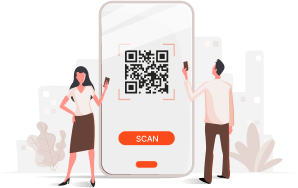
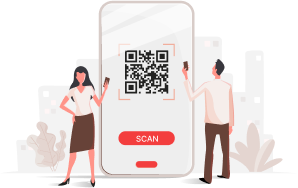
add chnages on design

Changed region(s): [[0.3926, 0.6915, 0.604, 0.7713], [0.453, 0.8511, 0.5436, 0.9043]]

diff --git a/resources/js/components/guest-app/Register.vue b/resources/js/components/guest-app/Register.vue
@@ -2,24 +2,24 @@
 <f7-page color="bg-color-white" @page:beforeremove="onPageBeforeRemove" @page:beforeout="onPageBeforeOut">
     <div class="nav-bar">
         <div class="row align-items-center navbar-menu">
-            <div class="menu">
+            <div class="menu col-33">
                 <div class="menu-inner color-black">
                     <div class="menu-item menu-item-dropdown bg-color-transparent" style="width : 100%">
-                        <div class="row menu-item-content no-margin-top no-margin-bottom no-gap">
-                            <div class="col-50">
+                        <div class="row menu-item-content no-margin-top no-margin-bottom justify-content-start">
+                            <div class="margin-right-half">
                                 <svg xmlns="http://www.w3.org/2000/svg" width="16" height="17" viewBox="0 0 16 17" fill="none">
-                                    <path d="M6.11595 8.79832C6.09029 8.67002 5.20648 4.256 5.17845 4.11613C5.13466 3.89728 4.94226 3.73975 4.71882 3.73975H3.78132C3.55788 3.73975 3.36548 3.89728 3.3217 4.11613C3.29323 4.25837 2.40851 8.67689 2.3842 8.79829C2.33341 9.05187 2.49807 9.29853 2.75191 9.34922C3.00576 9.39994 3.25273 9.23547 3.30348 8.98192L3.6031 7.48547H4.89704L5.19666 8.98195C5.24745 9.23563 5.49451 9.39997 5.74823 9.34925C6.00207 9.29853 6.16673 9.05187 6.11595 8.79832ZM3.7906 6.54904L4.1656 4.67618H4.33454L4.70954 6.54904H3.7906Z" fill="#FC4B1A" />
-                                    <path d="M6.11595 8.79832C6.09029 8.67002 5.20648 4.256 5.17845 4.11613C5.13466 3.89728 4.94226 3.73975 4.71882 3.73975H3.78132C3.55788 3.73975 3.36548 3.89728 3.3217 4.11613C3.29323 4.25837 2.40851 8.67689 2.3842 8.79829C2.33341 9.05187 2.49807 9.29853 2.75191 9.34922C3.00576 9.39994 3.25273 9.23547 3.30348 8.98192L3.6031 7.48547H4.89704L5.19666 8.98195C5.24745 9.23563 5.49451 9.39997 5.74823 9.34925C6.00207 9.29853 6.16673 9.05187 6.11595 8.79832ZM3.7906 6.54904L4.1656 4.67618H4.33454L4.70954 6.54904H3.7906Z" fill="#FC4B1A" fill-opacity="0.2" />
-                                    <path d="M13.625 7.4855H12.2188V7.01729C12.2188 6.75871 12.0089 6.54907 11.75 6.54907C11.4911 6.54907 11.2812 6.75871 11.2812 7.01729V7.4855H9.875C9.61612 7.4855 9.40625 7.69514 9.40625 7.95372C9.40625 8.2123 9.61612 8.42193 9.875 8.42193H9.98844C10.2555 9.28383 10.6577 9.94538 11.1002 10.4755C10.74 10.8046 10.3756 11.0744 10.0509 11.3338C9.84878 11.4954 9.816 11.79 9.97775 11.9919C10.1396 12.1939 10.4346 12.2265 10.6366 12.065C10.963 11.8042 11.3543 11.5143 11.75 11.1516C12.146 11.5145 12.538 11.8049 12.8634 12.065C13.0656 12.2266 13.3606 12.1938 13.5223 11.9919C13.684 11.79 13.6512 11.4953 13.4491 11.3338C13.1253 11.075 12.7604 10.8049 12.3998 10.4755C12.8423 9.94538 13.2445 9.28383 13.5116 8.42193H13.625C13.8839 8.42193 14.0938 8.2123 14.0938 7.95372C14.0938 7.69514 13.8839 7.4855 13.625 7.4855ZM11.75 9.78741C11.4508 9.41221 11.1816 8.96438 10.9787 8.41881H12.5213C12.3184 8.96438 12.0492 9.41221 11.75 9.78741Z" fill="#FC4B1A" />
-                                    <path d="M13.625 7.4855H12.2188V7.01729C12.2188 6.75871 12.0089 6.54907 11.75 6.54907C11.4911 6.54907 11.2812 6.75871 11.2812 7.01729V7.4855H9.875C9.61612 7.4855 9.40625 7.69514 9.40625 7.95372C9.40625 8.2123 9.61612 8.42193 9.875 8.42193H9.98844C10.2555 9.28383 10.6577 9.94538 11.1002 10.4755C10.74 10.8046 10.3756 11.0744 10.0509 11.3338C9.84878 11.4954 9.816 11.79 9.97775 11.9919C10.1396 12.1939 10.4346 12.2265 10.6366 12.065C10.963 11.8042 11.3543 11.5143 11.75 11.1516C12.146 11.5145 12.538 11.8049 12.8634 12.065C13.0656 12.2266 13.3606 12.1938 13.5223 11.9919C13.684 11.79 13.6512 11.4953 13.4491 11.3338C13.1253 11.075 12.7604 10.8049 12.3998 10.4755C12.8423 9.94538 13.2445 9.28383 13.5116 8.42193H13.625C13.8839 8.42193 14.0938 8.2123 14.0938 7.95372C14.0938 7.69514 13.8839 7.4855 13.625 7.4855ZM11.75 9.78741C11.4508 9.41221 11.1816 8.96438 10.9787 8.41881H12.5213C12.3184 8.96438 12.0492 9.41221 11.75 9.78741Z" fill="#FC4B1A" fill-opacity="0.2" />
-                                    <path d="M14.5938 3.27154H7.83122L7.63028 1.66144C7.5425 0.959989 6.94263 0.43103 6.23491 0.43103H1.40625C0.630844 0.43103 0 1.06115 0 1.83568V12.1676C0 12.9422 0.630844 13.5723 1.40625 13.5723H5.35884L5.55722 15.1824C5.64484 15.8824 6.24472 16.4128 6.95262 16.4128H14.5938C15.3692 16.4128 16 15.7827 16 15.0081V4.67618C16 3.90166 15.3692 3.27154 14.5938 3.27154ZM1.40625 12.6358C1.14778 12.6358 0.9375 12.4258 0.9375 12.1676V1.83568C0.9375 1.5775 1.14778 1.36746 1.40625 1.36746H6.23491C6.47081 1.36746 6.67078 1.54376 6.7 1.77743C6.76794 2.32168 7.98775 12.096 8.05513 12.6358H1.40625ZM6.46012 14.8443L6.30341 13.5723H7.56103L6.46012 14.8443ZM15.0625 15.0081C15.0625 15.2663 14.8522 15.4764 14.5938 15.4764H7.15231L8.93681 13.4146C9.02816 13.3116 9.06909 13.175 9.05022 13.0392L7.94809 4.20797H14.5938C14.8522 4.20797 15.0625 4.41801 15.0625 4.67618V15.0081Z" fill="#FC4B1A" />
-                                    <path d="M14.5938 3.27154H7.83122L7.63028 1.66144C7.5425 0.959989 6.94263 0.43103 6.23491 0.43103H1.40625C0.630844 0.43103 0 1.06115 0 1.83568V12.1676C0 12.9422 0.630844 13.5723 1.40625 13.5723H5.35884L5.55722 15.1824C5.64484 15.8824 6.24472 16.4128 6.95262 16.4128H14.5938C15.3692 16.4128 16 15.7827 16 15.0081V4.67618C16 3.90166 15.3692 3.27154 14.5938 3.27154ZM1.40625 12.6358C1.14778 12.6358 0.9375 12.4258 0.9375 12.1676V1.83568C0.9375 1.5775 1.14778 1.36746 1.40625 1.36746H6.23491C6.47081 1.36746 6.67078 1.54376 6.7 1.77743C6.76794 2.32168 7.98775 12.096 8.05513 12.6358H1.40625ZM6.46012 14.8443L6.30341 13.5723H7.56103L6.46012 14.8443ZM15.0625 15.0081C15.0625 15.2663 14.8522 15.4764 14.5938 15.4764H7.15231L8.93681 13.4146C9.02816 13.3116 9.06909 13.175 9.05022 13.0392L7.94809 4.20797H14.5938C14.8522 4.20797 15.0625 4.41801 15.0625 4.67618V15.0081Z" fill="#FC4B1A" fill-opacity="0.2" />
+                                    <path d="M6.11595 8.79832C6.09029 8.67002 5.20648 4.256 5.17845 4.11613C5.13466 3.89728 4.94226 3.73975 4.71882 3.73975H3.78132C3.55788 3.73975 3.36548 3.89728 3.3217 4.11613C3.29323 4.25837 2.40851 8.67689 2.3842 8.79829C2.33341 9.05187 2.49807 9.29853 2.75191 9.34922C3.00576 9.39994 3.25273 9.23547 3.30348 8.98192L3.6031 7.48547H4.89704L5.19666 8.98195C5.24745 9.23563 5.49451 9.39997 5.74823 9.34925C6.00207 9.29853 6.16673 9.05187 6.11595 8.79832ZM3.7906 6.54904L4.1656 4.67618H4.33454L4.70954 6.54904H3.7906Z" fill="#fff" />
+                                    <path d="M6.11595 8.79832C6.09029 8.67002 5.20648 4.256 5.17845 4.11613C5.13466 3.89728 4.94226 3.73975 4.71882 3.73975H3.78132C3.55788 3.73975 3.36548 3.89728 3.3217 4.11613C3.29323 4.25837 2.40851 8.67689 2.3842 8.79829C2.33341 9.05187 2.49807 9.29853 2.75191 9.34922C3.00576 9.39994 3.25273 9.23547 3.30348 8.98192L3.6031 7.48547H4.89704L5.19666 8.98195C5.24745 9.23563 5.49451 9.39997 5.74823 9.34925C6.00207 9.29853 6.16673 9.05187 6.11595 8.79832ZM3.7906 6.54904L4.1656 4.67618H4.33454L4.70954 6.54904H3.7906Z" fill="#fff" fill-opacity="0.2" />
+                                    <path d="M13.625 7.4855H12.2188V7.01729C12.2188 6.75871 12.0089 6.54907 11.75 6.54907C11.4911 6.54907 11.2812 6.75871 11.2812 7.01729V7.4855H9.875C9.61612 7.4855 9.40625 7.69514 9.40625 7.95372C9.40625 8.2123 9.61612 8.42193 9.875 8.42193H9.98844C10.2555 9.28383 10.6577 9.94538 11.1002 10.4755C10.74 10.8046 10.3756 11.0744 10.0509 11.3338C9.84878 11.4954 9.816 11.79 9.97775 11.9919C10.1396 12.1939 10.4346 12.2265 10.6366 12.065C10.963 11.8042 11.3543 11.5143 11.75 11.1516C12.146 11.5145 12.538 11.8049 12.8634 12.065C13.0656 12.2266 13.3606 12.1938 13.5223 11.9919C13.684 11.79 13.6512 11.4953 13.4491 11.3338C13.1253 11.075 12.7604 10.8049 12.3998 10.4755C12.8423 9.94538 13.2445 9.28383 13.5116 8.42193H13.625C13.8839 8.42193 14.0938 8.2123 14.0938 7.95372C14.0938 7.69514 13.8839 7.4855 13.625 7.4855ZM11.75 9.78741C11.4508 9.41221 11.1816 8.96438 10.9787 8.41881H12.5213C12.3184 8.96438 12.0492 9.41221 11.75 9.78741Z" fill="#fff" />
+                                    <path d="M13.625 7.4855H12.2188V7.01729C12.2188 6.75871 12.0089 6.54907 11.75 6.54907C11.4911 6.54907 11.2812 6.75871 11.2812 7.01729V7.4855H9.875C9.61612 7.4855 9.40625 7.69514 9.40625 7.95372C9.40625 8.2123 9.61612 8.42193 9.875 8.42193H9.98844C10.2555 9.28383 10.6577 9.94538 11.1002 10.4755C10.74 10.8046 10.3756 11.0744 10.0509 11.3338C9.84878 11.4954 9.816 11.79 9.97775 11.9919C10.1396 12.1939 10.4346 12.2265 10.6366 12.065C10.963 11.8042 11.3543 11.5143 11.75 11.1516C12.146 11.5145 12.538 11.8049 12.8634 12.065C13.0656 12.2266 13.3606 12.1938 13.5223 11.9919C13.684 11.79 13.6512 11.4953 13.4491 11.3338C13.1253 11.075 12.7604 10.8049 12.3998 10.4755C12.8423 9.94538 13.2445 9.28383 13.5116 8.42193H13.625C13.8839 8.42193 14.0938 8.2123 14.0938 7.95372C14.0938 7.69514 13.8839 7.4855 13.625 7.4855ZM11.75 9.78741C11.4508 9.41221 11.1816 8.96438 10.9787 8.41881H12.5213C12.3184 8.96438 12.0492 9.41221 11.75 9.78741Z" fill="#fff" fill-opacity="0.2" />
+                                    <path d="M14.5938 3.27154H7.83122L7.63028 1.66144C7.5425 0.959989 6.94263 0.43103 6.23491 0.43103H1.40625C0.630844 0.43103 0 1.06115 0 1.83568V12.1676C0 12.9422 0.630844 13.5723 1.40625 13.5723H5.35884L5.55722 15.1824C5.64484 15.8824 6.24472 16.4128 6.95262 16.4128H14.5938C15.3692 16.4128 16 15.7827 16 15.0081V4.67618C16 3.90166 15.3692 3.27154 14.5938 3.27154ZM1.40625 12.6358C1.14778 12.6358 0.9375 12.4258 0.9375 12.1676V1.83568C0.9375 1.5775 1.14778 1.36746 1.40625 1.36746H6.23491C6.47081 1.36746 6.67078 1.54376 6.7 1.77743C6.76794 2.32168 7.98775 12.096 8.05513 12.6358H1.40625ZM6.46012 14.8443L6.30341 13.5723H7.56103L6.46012 14.8443ZM15.0625 15.0081C15.0625 15.2663 14.8522 15.4764 14.5938 15.4764H7.15231L8.93681 13.4146C9.02816 13.3116 9.06909 13.175 9.05022 13.0392L7.94809 4.20797H14.5938C14.8522 4.20797 15.0625 4.41801 15.0625 4.67618V15.0081Z" fill="#fff" />
+                                    <path d="M14.5938 3.27154H7.83122L7.63028 1.66144C7.5425 0.959989 6.94263 0.43103 6.23491 0.43103H1.40625C0.630844 0.43103 0 1.06115 0 1.83568V12.1676C0 12.9422 0.630844 13.5723 1.40625 13.5723H5.35884L5.55722 15.1824C5.64484 15.8824 6.24472 16.4128 6.95262 16.4128H14.5938C15.3692 16.4128 16 15.7827 16 15.0081V4.67618C16 3.90166 15.3692 3.27154 14.5938 3.27154ZM1.40625 12.6358C1.14778 12.6358 0.9375 12.4258 0.9375 12.1676V1.83568C0.9375 1.5775 1.14778 1.36746 1.40625 1.36746H6.23491C6.47081 1.36746 6.67078 1.54376 6.7 1.77743C6.76794 2.32168 7.98775 12.096 8.05513 12.6358H1.40625ZM6.46012 14.8443L6.30341 13.5723H7.56103L6.46012 14.8443ZM15.0625 15.0081C15.0625 15.2663 14.8522 15.4764 14.5938 15.4764H7.15231L8.93681 13.4146C9.02816 13.3116 9.06909 13.175 9.05022 13.0392L7.94809 4.20797H14.5938C14.8522 4.20797 15.0625 4.41801 15.0625 4.67618V15.0081Z" fill="#fff" fill-opacity="0.2" />
                                 </svg>
                             </div>
-                            <div class="col-50 text-align-right">
+                            <div class="text-align-right">
                                 <svg xmlns="http://www.w3.org/2000/svg" width="7" height="4" viewBox="0 0 7 4" fill="none">
-                                    <path d="M3.28896 3.29113C3.40587 3.40683 3.59413 3.40683 3.71104 3.29113L6.01255 1.01322C6.20304 0.824685 6.06953 0.5 5.80151 0.5H1.19849C0.93047 0.5 0.796961 0.824685 0.987452 1.01322L3.28896 3.29113Z" fill="#FC4B1A" />
-                                    <path d="M3.28896 3.29113C3.40587 3.40683 3.59413 3.40683 3.71104 3.29113L6.01255 1.01322C6.20304 0.824685 6.06953 0.5 5.80151 0.5H1.19849C0.93047 0.5 0.796961 0.824685 0.987452 1.01322L3.28896 3.29113Z" fill="#FC4B1A" fill-opacity="0.2" />
+                                    <path d="M3.28896 3.29113C3.40587 3.40683 3.59413 3.40683 3.71104 3.29113L6.01255 1.01322C6.20304 0.824685 6.06953 0.5 5.80151 0.5H1.19849C0.93047 0.5 0.796961 0.824685 0.987452 1.01322L3.28896 3.29113Z" fill="#fff" />
+                                    <path d="M3.28896 3.29113C3.40587 3.40683 3.59413 3.40683 3.71104 3.29113L6.01255 1.01322C6.20304 0.824685 6.06953 0.5 5.80151 0.5H1.19849C0.93047 0.5 0.796961 0.824685 0.987452 1.01322L3.28896 3.29113Z" fill="#fff" fill-opacity="0.2" />
                                 </svg>
                             </div>
                         </div>
@@ -32,21 +32,25 @@
                     </div>
                 </div>
             </div>
-            <div class="registranstion text-color-white font-18">{{ title }}</div>
-            <a class="link icon-only" href="/favourites/">
-                <i class="f7-icons size-22 text-color-dark-orange padding-half font-18">heart_fill</i>
-            </a>
+            <div class="col-33 text-align-center">
+                <div class="registranstion text-color-white registraion-text">{{ title }}</div>
+            </div>
+            <div class="col-33 text-align-right">
+                <a class="link icon-only" href="/favourites/">
+                    <i class="f7-icons size-22 text-color-white padding font-18">heart_fill</i>
+                </a>
+            </div>
         </div>
     </div>
     <div class="margin-left margin-right register-from">
-        <div class="text-align-center text-color-gray">
+        <div class="text-align-center text-color-gray register-text">
             <p> Please fill in the form below. <br> We will contact you as soon as possible </p>
         </div>
         <div class="text-align-center padding-top">
             <img src="/images/registerImage.png" alt="">
         </div>
         <div>
-            <form class="list" id="my-form">
+            <form class="list margin-vertical" id="my-form">
                 <div class="item-content item-input">
                     <div class="item-inner">
                         <div class="item-title item-label font-16 text-color-black">Enter your name</div>
@@ -83,6 +87,15 @@
                         </div>
                     </div>
                 </div>
+                <div class="no-padding-left">
+                    <label class="item-checkbox item-content">
+                        <input type="checkbox" name="demo-checkbox" value="Books" checked="checked" />
+                        <i class="icon icon-checkbox"></i>
+                        <div class="item-inner">
+                            <div class="item-title">I agree with the terms & conditions</div>
+                        </div>
+                    </label>
+                </div>
             </form>
         </div>
         <div class="text-align-center">
@@ -108,7 +121,7 @@
             </div>
         </div>
     </div>
-    <Menu></Menu>
+    <Menu @textChange="title = 'Registration'"></Menu>
 </f7-page>
 </template>
 
@@ -244,6 +257,9 @@ export default {
         }
     },
 }
+$(document).on('click', '.sheet-backdrop', function () {
+    $('.registraion-text').text('Registration');
+});
 </script>
 
 <style scoped>
@@ -263,6 +279,7 @@ export default {
 
 .navbar-menu {
     transform: matrix(1, 0, 0, -1, 0, 0);
+    height : 56px;
 }
 
 .font-18 {
@@ -290,7 +307,14 @@ export default {
 
 .menu-dropdown-content {
     top: -8px !important;
-    left: 60% !important;
+    left: 45% !important;
+    min-width: calc(100% + 24px) !important;
+}
+
+.registraion-text{
+    font-weight: 600;
+    font-size: 19px;
+    line-height: 23px;
 }
 
 .registranstion {
@@ -321,11 +345,16 @@ export default {
     text-decoration: underline;
 }
 
+.register-text{
+    margin-top:20px;
+}
+
 .countdown_section {
     background: #f88f721a;
     box-shadow: 0px 1px 9px #f88f721a;
     border-radius: 7px;
     padding: 18px;
+    position:relative;
 }
 
 .text-color-Blue {
@@ -346,6 +375,28 @@ export default {
 .register-from {
     height: calc(100vh - 150px);
     overflow-y: auto;
+}
+.icon-checkbox,.checkbox i{
+    border-radius: 3px !important;
+    margin-right: 5px !important;
+    width: 12px;
+    height: 12px;
+}
+.item-checkbox .item-inner{
+    font-weight: 400;
+    font-size: 12px;
+    line-height: 15px;
+    color: #555555;
+}
+label.item-checkbox input[type='checkbox']:checked~.icon-checkbox{
+    background-color: #F33E3E;
+    border-color: #F33E3E;
+}
+label.item-checkbox input[type='checkbox']:checked~.icon-checkbox:after{
+    width: 12px;
+    height: 12px;
+    line-height: 0.9;
+    font-size: 15px;
 }
 </style>
 <style>
@@ -369,7 +420,7 @@ export default {
 .register-button:hover,
 .register-button:active,
 .active {
-    background: #FC4B1A !important;
+    background: #F33E3E !important;
     color: #fff !important;
 }
 

diff --git a/resources/js/components/guest-app/Waiting.vue b/resources/js/components/guest-app/Waiting.vue
@@ -1,42 +1,13 @@
 <template>
     <f7-page class="page-favourite bg-color-white" @page:beforeremove="onPageBeforeRemove" @page:beforeout="onPageBeforeOut">
         <div class="nav-bar">
-            <div class="row align-items-center navbar-menu">
-                <div class="menu">
-                    <div class="menu-inner color-black">
-                        <div class="menu-item menu-item-dropdown bg-color-transparent" style="width : 100%">
-                            <div class="row menu-item-content no-margin-top no-margin-bottom no-gap">
-                                <div class="col-50">
-                                <svg xmlns="http://www.w3.org/2000/svg" width="16" height="17" viewBox="0 0 16 17" fill="none">
-                                <path d="M6.11595 8.79832C6.09029 8.67002 5.20648 4.256 5.17845 4.11613C5.13466 3.89728 4.94226 3.73975 4.71882 3.73975H3.78132C3.55788 3.73975 3.36548 3.89728 3.3217 4.11613C3.29323 4.25837 2.40851 8.67689 2.3842 8.79829C2.33341 9.05187 2.49807 9.29853 2.75191 9.34922C3.00576 9.39994 3.25273 9.23547 3.30348 8.98192L3.6031 7.48547H4.89704L5.19666 8.98195C5.24745 9.23563 5.49451 9.39997 5.74823 9.34925C6.00207 9.29853 6.16673 9.05187 6.11595 8.79832ZM3.7906 6.54904L4.1656 4.67618H4.33454L4.70954 6.54904H3.7906Z" fill="#FC4B1A"/>
-                                <path d="M6.11595 8.79832C6.09029 8.67002 5.20648 4.256 5.17845 4.11613C5.13466 3.89728 4.94226 3.73975 4.71882 3.73975H3.78132C3.55788 3.73975 3.36548 3.89728 3.3217 4.11613C3.29323 4.25837 2.40851 8.67689 2.3842 8.79829C2.33341 9.05187 2.49807 9.29853 2.75191 9.34922C3.00576 9.39994 3.25273 9.23547 3.30348 8.98192L3.6031 7.48547H4.89704L5.19666 8.98195C5.24745 9.23563 5.49451 9.39997 5.74823 9.34925C6.00207 9.29853 6.16673 9.05187 6.11595 8.79832ZM3.7906 6.54904L4.1656 4.67618H4.33454L4.70954 6.54904H3.7906Z" fill="#FC4B1A" fill-opacity="0.2"/>
-                                <path d="M13.625 7.4855H12.2188V7.01729C12.2188 6.75871 12.0089 6.54907 11.75 6.54907C11.4911 6.54907 11.2812 6.75871 11.2812 7.01729V7.4855H9.875C9.61612 7.4855 9.40625 7.69514 9.40625 7.95372C9.40625 8.2123 9.61612 8.42193 9.875 8.42193H9.98844C10.2555 9.28383 10.6577 9.94538 11.1002 10.4755C10.74 10.8046 10.3756 11.0744 10.0509 11.3338C9.84878 11.4954 9.816 11.79 9.97775 11.9919C10.1396 12.1939 10.4346 12.2265 10.6366 12.065C10.963 11.8042 11.3543 11.5143 11.75 11.1516C12.146 11.5145 12.538 11.8049 12.8634 12.065C13.0656 12.2266 13.3606 12.1938 13.5223 11.9919C13.684 11.79 13.6512 11.4953 13.4491 11.3338C13.1253 11.075 12.7604 10.8049 12.3998 10.4755C12.8423 9.94538 13.2445 9.28383 13.5116 8.42193H13.625C13.8839 8.42193 14.0938 8.2123 14.0938 7.95372C14.0938 7.69514 13.8839 7.4855 13.625 7.4855ZM11.75 9.78741C11.4508 9.41221 11.1816 8.96438 10.9787 8.41881H12.5213C12.3184 8.96438 12.0492 9.41221 11.75 9.78741Z" fill="#FC4B1A"/>
-                                <path d="M13.625 7.4855H12.2188V7.01729C12.2188 6.75871 12.0089 6.54907 11.75 6.54907C11.4911 6.54907 11.2812 6.75871 11.2812 7.01729V7.4855H9.875C9.61612 7.4855 9.40625 7.69514 9.40625 7.95372C9.40625 8.2123 9.61612 8.42193 9.875 8.42193H9.98844C10.2555 9.28383 10.6577 9.94538 11.1002 10.4755C10.74 10.8046 10.3756 11.0744 10.0509 11.3338C9.84878 11.4954 9.816 11.79 9.97775 11.9919C10.1396 12.1939 10.4346 12.2265 10.6366 12.065C10.963 11.8042 11.3543 11.5143 11.75 11.1516C12.146 11.5145 12.538 11.8049 12.8634 12.065C13.0656 12.2266 13.3606 12.1938 13.5223 11.9919C13.684 11.79 13.6512 11.4953 13.4491 11.3338C13.1253 11.075 12.7604 10.8049 12.3998 10.4755C12.8423 9.94538 13.2445 9.28383 13.5116 8.42193H13.625C13.8839 8.42193 14.0938 8.2123 14.0938 7.95372C14.0938 7.69514 13.8839 7.4855 13.625 7.4855ZM11.75 9.78741C11.4508 9.41221 11.1816 8.96438 10.9787 8.41881H12.5213C12.3184 8.96438 12.0492 9.41221 11.75 9.78741Z" fill="#FC4B1A" fill-opacity="0.2"/>
-                                <path d="M14.5938 3.27154H7.83122L7.63028 1.66144C7.5425 0.959989 6.94263 0.43103 6.23491 0.43103H1.40625C0.630844 0.43103 0 1.06115 0 1.83568V12.1676C0 12.9422 0.630844 13.5723 1.40625 13.5723H5.35884L5.55722 15.1824C5.64484 15.8824 6.24472 16.4128 6.95262 16.4128H14.5938C15.3692 16.4128 16 15.7827 16 15.0081V4.67618C16 3.90166 15.3692 3.27154 14.5938 3.27154ZM1.40625 12.6358C1.14778 12.6358 0.9375 12.4258 0.9375 12.1676V1.83568C0.9375 1.5775 1.14778 1.36746 1.40625 1.36746H6.23491C6.47081 1.36746 6.67078 1.54376 6.7 1.77743C6.76794 2.32168 7.98775 12.096 8.05513 12.6358H1.40625ZM6.46012 14.8443L6.30341 13.5723H7.56103L6.46012 14.8443ZM15.0625 15.0081C15.0625 15.2663 14.8522 15.4764 14.5938 15.4764H7.15231L8.93681 13.4146C9.02816 13.3116 9.06909 13.175 9.05022 13.0392L7.94809 4.20797H14.5938C14.8522 4.20797 15.0625 4.41801 15.0625 4.67618V15.0081Z" fill="#FC4B1A"/>
-                                <path d="M14.5938 3.27154H7.83122L7.63028 1.66144C7.5425 0.959989 6.94263 0.43103 6.23491 0.43103H1.40625C0.630844 0.43103 0 1.06115 0 1.83568V12.1676C0 12.9422 0.630844 13.5723 1.40625 13.5723H5.35884L5.55722 15.1824C5.64484 15.8824 6.24472 16.4128 6.95262 16.4128H14.5938C15.3692 16.4128 16 15.7827 16 15.0081V4.67618C16 3.90166 15.3692 3.27154 14.5938 3.27154ZM1.40625 12.6358C1.14778 12.6358 0.9375 12.4258 0.9375 12.1676V1.83568C0.9375 1.5775 1.14778 1.36746 1.40625 1.36746H6.23491C6.47081 1.36746 6.67078 1.54376 6.7 1.77743C6.76794 2.32168 7.98775 12.096 8.05513 12.6358H1.40625ZM6.46012 14.8443L6.30341 13.5723H7.56103L6.46012 14.8443ZM15.0625 15.0081C15.0625 15.2663 14.8522 15.4764 14.5938 15.4764H7.15231L8.93681 13.4146C9.02816 13.3116 9.06909 13.175 9.05022 13.0392L7.94809 4.20797H14.5938C14.8522 4.20797 15.0625 4.41801 15.0625 4.67618V15.0081Z" fill="#FC4B1A" fill-opacity="0.2"/>
-                                </svg>
-                                </div>
-                                <div class="col-50 text-align-right">
-                                <svg xmlns="http://www.w3.org/2000/svg" width="7" height="4" viewBox="0 0 7 4" fill="none">
-                                    <path d="M3.28896 3.29113C3.40587 3.40683 3.59413 3.40683 3.71104 3.29113L6.01255 1.01322C6.20304 0.824685 6.06953 0.5 5.80151 0.5H1.19849C0.93047 0.5 0.796961 0.824685 0.987452 1.01322L3.28896 3.29113Z" fill="#FC4B1A"/>
-                                    <path d="M3.28896 3.29113C3.40587 3.40683 3.59413 3.40683 3.71104 3.29113L6.01255 1.01322C6.20304 0.824685 6.06953 0.5 5.80151 0.5H1.19849C0.93047 0.5 0.796961 0.824685 0.987452 1.01322L3.28896 3.29113Z" fill="#FC4B1A" fill-opacity="0.2"/>
-                                </svg>
-                                </div>
-                            </div>
-                            <div class="menu-dropdown menu-dropdown-center bg-color-transparent">
-                                <div class="card menu-dropdown-content bg-color-white margin-left no-margin-top">
-                                    <a href="#" class="menu-dropdown-link menu-close justify-content-center text-color-black no-padding">Gujarati</a>
-                                    <a href="#" class="menu-dropdown-link menu-close justify-content-center text-color-black no-padding">English</a>
-                                </div>
-                            </div>
-                        </div>
-                    </div>
+            <f7-navbar class="navbar-menu text-color-white" large transparent title="Time" back-link="Back">
+                <div class="favourites-card">
+                    <a class="link icon-only" href="/favourites/">
+                        <i class="f7-icons size-22 text-color-white padding-half font-18">heart_fill</i>
+                    </a>
                 </div>
-                <div class="registranstion text-color-white font-18">Waiting</div>
-                <a class="link icon-only" href="/favourites/">
-                    <i class="f7-icons size-22 text-color-dark-orange padding-half font-18">heart_fill</i>
-                </a>
-            </div>
+            </f7-navbar>
         </div>
 
         <div class="margin countdown_section">
@@ -100,6 +71,7 @@ export default {
 
 .navbar-menu{
     transform: matrix(1, 0, 0, -1, 0, 0);
+    height: 56px;
 }
 .text-color-dark-orange{
     color: #FC4B1A !important;
@@ -119,7 +91,7 @@ export default {
     opacity: 0;
 }
 .countdown_section{
-    height: calc(100vh - 80px);
+    height: calc(100vh - 90px);
     display: flex;
     flex-wrap: wrap;
     align-content: center;
@@ -127,7 +99,6 @@ export default {
 }
 .countdown{
     background: #f88f721a;
-    box-shadow: 0px 1px 9px #f88f721a;
     border-radius: 7px;
     padding: 18px;
     width: 100%;
@@ -144,7 +115,7 @@ export default {
     position: relative;
 }
 .open-menu-button{
-    background: #FC4B1A !important;
+    background: #F33E3E !important;
     color : #fff;
 }
 .text-transform-capitalize {

diff --git a/resources/js/components/guest-app/Favourite.vue b/resources/js/components/guest-app/Favourite.vue
@@ -10,7 +10,7 @@
             >
                 <div class="favourites-card">
                     <a class="link icon-only" href="/favourites/">
-                        <i class="f7-icons size-22 text-color-dark-orange padding-half font-18">heart_fill</i>
+                        <i class="f7-icons size-22 text-color-white padding-half font-18">heart_fill</i>
                     </a>
                 </div>
             </f7-navbar>
@@ -116,7 +116,7 @@ export default {
 </script>
 
 <style scoped>
-    .nav-bar{
+.nav-bar{
         background: #38373D;
         border-radius: 8px 8px 0px 0px;
         transform: matrix(1, 0, 0, -1, 0, 0);
@@ -124,6 +124,7 @@ export default {
 
     .navbar-menu{
         transform: matrix(1, 0, 0, -1, 0, 0);
+        height: 56px;
     }
     .page-content {
         padding-top: 0px !important;
@@ -136,6 +137,9 @@ export default {
         width :100% !important;
         height: 100% !important;
     }
+    .card{
+        box-shadow: 0px 0px 5px rgba(0, 0, 0, 0.1);
+    }
     .border-bottom{
         border-bottom: 1px solid #EAEAEA;
     }
@@ -146,14 +150,20 @@ export default {
         border-right: 1px solid #F3F3F3 !important;
     }
     .text-color-dark-orange{
-        color: #FC4B1A !important;
+        color: #F33E3E !important;
     }
     .bg-color-dark-orange{
-        background: #FC4B1A !important;
+        background: #F33E3E !important;
     }
 </style>
 
 <style>
+    .navbar .title{
+        left: -11px !important;
+        font-weight: 600 !important;
+        font-size: 19px !important;
+        line-height: 23px !important;
+    }
     .cart-list{
         box-shadow: 1px 2px 5px 2px rgb(0 0 0 / 20%);
     }
@@ -172,6 +182,9 @@ export default {
     }
 
     .navbar a.link{
-        color: #FC4B1A !important;
+        color: #fff !important;
+        font-weight: 500;
+        font-size: 15px;
+        line-height: 18px;
     }
 </style>

diff --git a/resources/js/components/guest-app/Menu.vue b/resources/js/components/guest-app/Menu.vue
@@ -3,7 +3,6 @@
     <f7-sheet
         class="demo-sheet-swipe-to-close"
         style="height:auto; --f7-sheet-bg-color: #fff;"
-        swipe-to-close
         backdrop
     >
         <f7-page-content>
@@ -16,7 +15,7 @@
         <f7-block-title class="text-align-center font-18 text-color-black margin-top-half">Food Menu</f7-block-title>
         <div class="margin">
             <!-- <div class="text-align-center text-color-gray">Select your favourite food <br> and enjoy with family</div> -->
-            <div data-pagination='{"el": ".swiper-pagination"}' data-space-between="10" data-slides-per-view="5"
+            <div data-pagination='{"el":".swiper-pagination"}' data-space-between="10" data-slides-per-view="5"
             class="swiper swiper-init demo-swiper margin-top margin-bottom" style="height : 120px">
             <div class="swiper-pagination"></div>
             <div class="swiper-wrapper">
@@ -225,6 +224,7 @@ import {
   f7Sheet
 } from 'framework7-vue';
 import VueCountdown from '@chenfengyuan/vue-countdown';
+import $ from 'jquery';
 export default {
     components : {
         f7BlockTitle,
@@ -234,10 +234,12 @@ export default {
     },
     methods: {
         closePopup(){
-        document.querySelector('.sheet-backdrop').click();
+            document.querySelector('.sheet-backdrop').click();
+            this.$emit('textChange');
         },
     },
 }
+
 </script>
 
 <style scoped>
